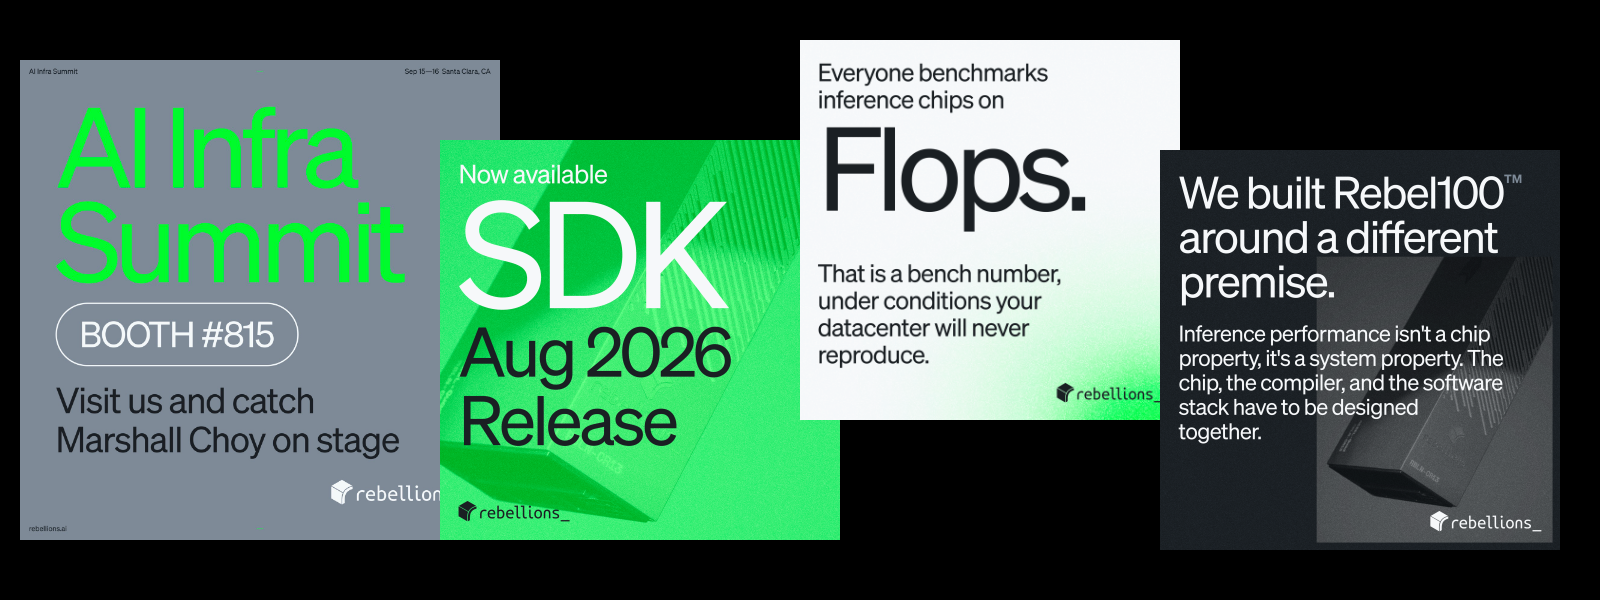
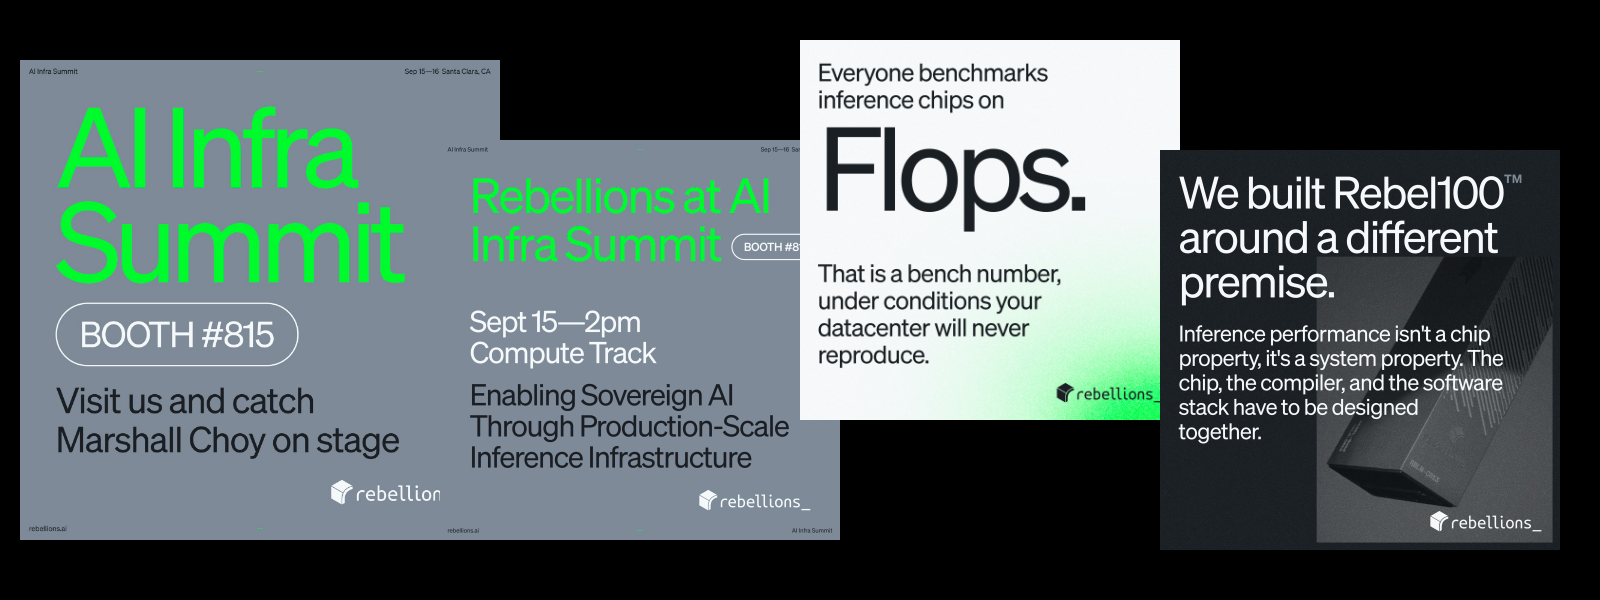
Critique rounds 6 to 10: left-set hed in its own band, eight-card locked grid, plain Experience columns
The headline sits in a black band above the mesh, no peeking card, arcs and the About/Contact band are gone. Work runs eight cards at fixed plate heights with continuous rules, Cloud Productions leaves the grid ( page stays, linked from Leadership University ), Music shows the poster photograph, captions collapse to two sizes. Experience is company, role, date in plain columns. Section labels drop to the 27px tier. Mobile rules rewritten for the left hero.

Changed region(s): [[0.25, 0.21, 0.5312, 0.9]]

diff --git a/index.html b/index.html
@@ -21,17 +21,12 @@
 
   <main id="top">
     <!-- Pinned hero. The card train slides right to left as the page scrolls. -->
-    <section class="hero">
+    <section class="hero hero--left">
       <div class="hero__pin">
+        <div class="hero__band"><h1 class="hero__hed">Brand, product and web design for security software, AI silicon and music</h1></div>
+        <div class="hero__stage">
         <img class="hero__mesh" src="assets/shader/mesh.png" alt="" />
-        <svg class="hero__arcs" viewBox="0 0 1440 800" preserveAspectRatio="xMidYMid slice" aria-hidden="true">
-          <g fill="none" stroke="#5a5a5a" stroke-width="1">
-            <line x1="0" y1="200" x2="1440" y2="200"/><line x1="0" y1="400" x2="1440" y2="400"/><line x1="0" y1="600" x2="1440" y2="600"/>
-            <circle cx="-30" cy="400" r="360"/><circle cx="210" cy="400" r="360"/><circle cx="450" cy="400" r="360"/><circle cx="690" cy="400" r="360"/><circle cx="930" cy="400" r="360"/><circle cx="1170" cy="400" r="360"/><circle cx="1410" cy="400" r="360"/>
-          </g>
-        </svg>
-        <h1 class="hero__hed">Brand, product and web design for security software, AI silicon and music</h1>
-        <span class="hero__scroll">Scroll down</span>
+        <a class="hero__caption" href="https://shader-lab-five.vercel.app">Shader lab, WebGL, 2026</a>
         <div class="train" id="train">
           <a class="card card--2" href="projects/rebellions.html"><img src="assets/rebellions/carousel-1-cover.jpg" alt="" /><span class="card__pills"><span class="pill">Brand</span><span class="pill">Social</span></span></a>
           <a class="card card--0" href="projects/music.html"><img src="assets/music/noe-106.png" alt="" /><span class="card__pills"><span class="pill">Identity</span><span class="pill">Posters</span></span></a>
@@ -45,9 +40,6 @@
           <a class="card card--9" href="https://shader-lab-five.vercel.app"><img src="assets/shader/dotfield.png" alt="" /><span class="card__title">Shader lab</span><span class="card__pills"><span class="pill">Generative</span></span></a>
           <a class="card card--8" href="projects/gravity.html"><img src="assets/gravity/gcom_Seal._1100.png" alt="" /><span class="card__title">Gravity</span><span class="card__pills"><span class="pill">Identity</span></span></a>
         </div>
-        <div class="bar bar--corner">
-          <a href="#about">About</a>
-          <a href="#contact">Contact</a>
         </div>
       </div>
     </section>
@@ -56,104 +48,98 @@
     <section id="work" class="sheet">
       <div class="cell cell--label">
         <h2 class="display-xl">Work</h2>
-        <p class="body">Eleven projects across AI silicon, security software, music, a synthesizer and a shader lab, 2010 to 2026.</p>
-        <a class="ghost ghost--label" href="https://cargocollective.com/reductive">Earlier work at Reductive</a>
+        <p class="body">Ten projects, 2010 to 2026.</p>
+        <a class="textlink" href="https://cargocollective.com/reductive">Earlier work at Reductive</a>
       </div>
       <a class="cell cell--card cell--card-wide" href="projects/rebellions.html">
         <img src="assets/rebellions/collage-wide.png" alt="" />
-        <span class="meta"><span class="pill">Brand</span><span class="pill">Social</span><span class="date">2026 to now</span></span>
+        <span class="meta-line">Brand, Social, 2026 to now</span>
         <span class="heading-lg">Rebellions</span>
-        <span class="body">Social templates and the AI Infra Summit carousel for a Korean AI inference chip company. The first work under a new creative direction.</span>
+        <span class="body">Social system and the AI Infra Summit carousel, the first public work.</span>
       </a>
       <a class="cell cell--card" href="projects/nudge-security.html">
         <img src="assets/nudge/work-bento-2026.png" alt="" />
-        <span class="meta"><span class="pill">Brand</span><span class="pill">Product</span><span class="date">2022 to 2026</span></span>
+        <span class="meta-line">Brand, Product, 2022 to 2026</span>
         <span class="heading-lg">Nudge Security</span>
-        <span class="body">Creative direction for a SaaS security platform, from a four person prototype to a shipped design system.</span>
+        <span class="body">Brand, product and web for a SaaS security platform, 2022 to 2026.</span>
       </a>
       <div class="cell cell--blank"></div>
       <a class="cell cell--card" href="projects/music.html">
-        <img src="assets/music/collage.png" alt="" />
-        <span class="meta"><span class="pill">Identity</span><span class="pill">Posters</span><span class="date">2023 to 2025</span></span>
+        <img src="assets/music/hb-posters.png" alt="" />
+        <span class="meta-line">Identity, Posters, 2023 to 2025</span>
         <span class="heading-lg">Music</span>
-        <span class="body">Fast Forward, Harvard Bass, Night on Earth, Ruth Radelet, WN. Logomarks, tour posters and monthly flyers.</span>
+        <span class="body">Logomarks, tour posters and flyers for five acts.</span>
       </a>
       <a class="cell cell--card" href="https://shader-lab-five.vercel.app">
         <img src="assets/shader/mesh.png" alt="" />
-        <span class="meta"><span class="pill">Generative</span><span class="pill">WebGL</span><span class="date">2026</span></span>
+        <span class="meta-line">Generative, WebGL, 2026</span>
         <span class="heading-lg">Shader lab</span>
-        <span class="body">Three live shaders, dotfield, coil and mesh. The URL hash is the saved look.</span>
+        <span class="body">Three live shaders. The URL hash is the saved look.</span>
       </a>
       <a class="cell cell--card" href="projects/imperva.html">
         <img src="assets/imperva/video/overview-wheel.jpg" alt="" />
-        <span class="meta"><span class="pill">Product</span><span class="pill">Brand</span><span class="date">2018 to 2022</span></span>
+        <span class="meta-line">Product, Brand, 2018 to 2022</span>
         <span class="heading-lg">Imperva</span>
-        <span class="body">Attack analytics, dashboards and brand for a public cybersecurity company.</span>
+        <span class="body">Product UI system, then the brand, for a public security company.</span>
       </a>
       <div class="cell cell--blank"></div>
       <a class="cell cell--card" href="projects/prevoty.html">
         <img src="assets/prevoty/brand-bento.jpg" alt="" />
-        <span class="meta"><span class="pill">Brand</span><span class="pill">Product</span><span class="date">2012 to 2018</span></span>
+        <span class="meta-line">Brand, Product, 2012 to 2018</span>
         <span class="heading-lg">Prevoty</span>
-        <span class="body">Identity and product design for a runtime security startup, through its acquisition by Imperva.</span>
+        <span class="body">Identity and product for a runtime security startup.</span>
       </a>
       <a class="cell cell--card" href="projects/leadership-university.html">
         <img src="assets/leadu/app-dubrovnik.jpg" alt="" />
-        <span class="meta"><span class="pill">Brand</span><span class="pill">Web</span><span class="date">2019</span></span>
+        <span class="meta-line">Brand, Web, 2019</span>
         <span class="heading-lg">Leadership University</span>
-        <span class="body">Brand and marketing site for a leadership platform, built on aerial cinematography and large type.</span>
+        <span class="body">Brand and site for a twelve episode leadership series.</span>
       </a>
-      <a class="cell cell--card" href="projects/cloud-productions.html">
-        <img src="assets/boundaries/drcloud-home.png" alt="" />
-        <span class="meta"><span class="pill">Brand</span><span class="pill">Web</span><span class="date">2019</span></span>
-        <span class="heading-lg">Cloud Productions</span>
-        <span class="body">Brand and web for Dr. Henry Cloud's courses, coaching and community.</span>
-      </a>
-      <div class="cell cell--blank"></div>
-      <a class="cell cell--card cell--card-full" href="projects/c-qnc-synth.html">
+      <a class="cell cell--card" href="projects/c-qnc-synth.html">
         <img src="assets/cqnc/synth-app.jpg" alt="" />
-        <span class="meta"><span class="pill">Instrument</span><span class="pill">Side project</span><span class="date">2025</span></span>
+        <span class="meta-line">Instrument, Side project, 2025</span>
         <span class="heading-lg">C-QNC Synth</span>
-        <span class="body">A browser polyphonic synthesizer: instrument racks, step sequencer, granular controls.</span>
+        <span class="body">A polyphonic synth and groovebox that runs in a browser tab.</span>
       </a>
     </section>
 
     <section id="about" class="sheet">
       <div class="cell cell--label">
         <h2 class="display-xl">About</h2>
-        <p class="body">Long Beach, California. Working with Seoul.</p>
+        <p class="body">Long Beach, California.</p>
       </div>
       <div class="cell cell--wide">
         <p class="display">Creative Director at Rebellions, the Korean AI inference chip company, since July 2026.</p>
         <p class="body">Before that, four years leading brand, product and web at Nudge Security, and ten at Imperva and Prevoty building the design system for a runtime security product. Earlier work at BBC Worldwide, Gravity and MySpace.</p>
       </div>
-      <div class="cell cell--action cell--stack">
-        <a class="ghost" href="mailto:jm@reductive.co">jm@reductive.co</a>
-        <a class="ghost" href="https://www.linkedin.com/in/mcnielj/">LinkedIn</a>
+      <div class="cell cell--links">
+        <a class="textlink" href="https://www.linkedin.com/in/mcnielj/">LinkedIn</a>
+        <a class="textlink" href="https://cargocollective.com/reductive">Reductive archive</a>
       </div>
     </section>
 
     <section id="experience" class="sheet">
       <div class="cell cell--label">
         <h2 class="display-xl">Experience</h2>
+        <p class="body">Nine roles since 2002.</p>
       </div>
       <ol class="cell cell--span3 roles">
-        <li class="role"><span class="heading-sm">Rebellions</span><span class="meta"><span class="pill">Creative director</span><span class="date">2026 to now</span></span></li>
-        <li class="role"><span class="heading-sm">Nudge Security</span><span class="meta"><span class="pill">Creative director</span><span class="date">2022 to 2026</span></span></li>
-        <li class="role"><span class="heading-sm">Imperva</span><span class="meta"><span class="pill">Creative director</span><span class="date">2020 to 2022</span></span></li>
-        <li class="role"><span class="heading-sm">Imperva, formerly Prevoty</span><span class="meta"><span class="pill">Sr. product designer</span><span class="date">2012 to 2020</span></span></li>
-        <li class="role"><span class="heading-sm">Personagraph</span><span class="meta"><span class="pill">Lead UX and product designer</span><span class="date">2012 to 2013</span></span></li>
-        <li class="role"><span class="heading-sm">BBC Worldwide</span><span class="meta"><span class="pill">Lead UX designer</span><span class="date">2011 to 2012</span></span></li>
-        <li class="role"><span class="heading-sm">Gravity</span><span class="meta"><span class="pill">Director of design</span><span class="date">2010</span></span></li>
-        <li class="role"><span class="heading-sm">MySpace</span><span class="meta"><span class="pill">UX and UI designer</span><span class="date">2008 to 2009</span></span></li>
-        <li class="role"><span class="heading-sm">isodsgn, Lathian Systems, Nichols International</span><span class="meta"><span class="pill">Designer, art director</span><span class="date">2002 to 2011</span></span></li>
+        <li class="role"><span class="heading-sm">Rebellions</span><span class="role__title">Creative director</span><span class="role__date">2026 to now</span></li>
+        <li class="role"><span class="heading-sm">Nudge Security</span><span class="role__title">Creative director</span><span class="role__date">2022 to 2026</span></li>
+        <li class="role"><span class="heading-sm">Imperva</span><span class="role__title">Creative director</span><span class="role__date">2020 to 2022</span></li>
+        <li class="role"><span class="heading-sm">Imperva, formerly Prevoty</span><span class="role__title">Sr. product designer</span><span class="role__date">2012 to 2020</span></li>
+        <li class="role"><span class="heading-sm">Personagraph</span><span class="role__title">Lead UX and product designer</span><span class="role__date">2012 to 2013</span></li>
+        <li class="role"><span class="heading-sm">BBC Worldwide</span><span class="role__title">Lead UX designer</span><span class="role__date">2011 to 2012</span></li>
+        <li class="role"><span class="heading-sm">Gravity</span><span class="role__title">Director of design</span><span class="role__date">2010</span></li>
+        <li class="role"><span class="heading-sm">MySpace</span><span class="role__title">UX and UI designer</span><span class="role__date">2008 to 2009</span></li>
+        <li class="role"><span class="heading-sm">isodsgn, Lathian Systems, Nichols International</span><span class="role__title">Designer, art director</span><span class="role__date">2002 to 2011</span></li>
       </ol>
     </section>
 
     <section class="sheet">
       <div class="cell cell--label">
         <h2 class="display-xl">Said</h2>
-        <p class="body">About the work, by people who paid for it.</p>
+        <p class="body">By people who paid for the work.</p>
       </div>
       <div class="cell cell--span3 quotes">
         <figure class="quote"><blockquote class="quote__text">"I've never met anyone with better taste. My number one pick for design and information architecture."</blockquote><figcaption class="quote__by">F. Brito, CTO, iv.ai</figcaption></figure>
@@ -163,7 +149,7 @@
   </main>
 
   <footer id="contact" class="sheet foot">
-    <div class="cell"><span class="caption">&copy; 2026 Jamie McNiel, Long Beach, California</span></div>
+    <div class="cell"><span class="caption">&copy; 2026 Jamie McNiel</span></div>
     <div class="cell"><a class="caption" href="https://www.linkedin.com/in/mcnielj/">LinkedIn</a></div>
     <div class="cell"><a class="caption" href="https://cargocollective.com/reductive">Earlier work at Reductive</a></div>
     <div class="cell"><a class="foot__mail" href="mailto:jm@reductive.co">jm@reductive.co</a></div>

diff --git a/b.css b/b.css
@@ -36,7 +36,7 @@ img { display: block; }
 .heading { font-size: 27px; line-height: 1.2; letter-spacing: -0.032em; }
 .heading-lg { font-size: 32px; line-height: 1; letter-spacing: -0.037em; }
 .display { font-size: clamp(32px, 3.5vw, 50px); line-height: 1; letter-spacing: -0.044em; }
-.display-xl { font-weight: 400; font-size: clamp(36px, 3.6vw, 56px); line-height: 0.9; letter-spacing: -0.05em; }
+.display-xl { font-weight: 400; font-size: 27px; line-height: 1.1; letter-spacing: -0.032em; }
 
 .pill {
   display: inline-block;
@@ -97,11 +97,11 @@ img { display: block; }
 }
 
 /* Hero: 320vh runway, pinned viewport, card train */
-.hero { height: 320vh; position: relative; }
+.hero { height: calc(3 * min(100vh - var(--bar), 700px)); position: relative; }
 .hero__pin {
   position: sticky;
   top: var(--bar);
-  height: calc(100vh - var(--bar));
+  height: min(calc(100vh - var(--bar)), 700px);
   overflow: hidden;
 }
 .hero__mesh { position: absolute; inset: 0; width: 100%; height: 100%; object-fit: cover; opacity: .62; }
@@ -155,18 +155,24 @@ img { display: block; }
 .card--9  { left: 2960px; top: 42%; width: 560px; aspect-ratio: 3098 / 2180; z-index: 3; } /* Shader lab */
 
 /* Left-set hero variant: hed flush left on the rail edge, mesh pushed right and dimmed under the type, no peeking card */
+.hero__band { position: relative; z-index: 2; height: 250px; padding: 36px var(--gutter) 0; background: var(--obsidian); }
+.hero__stage { position: absolute; left: 0; right: 0; top: 250px; bottom: 0; overflow: hidden; }
 .hero--left .hero__hed {
-  left: var(--gutter); top: auto; bottom: 200px;
-  transform: none;
-  width: min(62vw, 900px);
+  position: static; transform: none;
+  width: min(72vw, 1040px);
   text-align: left;
-  font-size: clamp(40px, 5vw, 72px);
+  font-size: clamp(40px, 4.2vw, 60px);
   mix-blend-mode: normal;
   color: var(--ghost);
 }
-.hero--left .hero__mesh { object-position: 70% 50%; opacity: .5; }
-.hero--left .hero__scroll { left: auto; right: var(--gutter); transform: none; bottom: 200px; }
+.hero--left .hero__mesh { object-position: center 40%; opacity: .7; transform: none; }
+.hero__caption { position: absolute; right: var(--gutter); bottom: 18px; font-size: 16px; color: var(--ash-text); z-index: 2; }
+.hero__caption:hover { color: var(--ghost); }
 .hero--left .train { left: 100vw; }
+
+/* Work rows: continuous horizontal rules */
+#work .cell { border-bottom: 1px solid var(--ash); }
+#work + .sheet { border-top: 0; }
 
 /* Sheet: four columns, hairline seams, sections stacked */
 .sheet {
@@ -187,21 +193,26 @@ img { display: block; }
 .cell--label { padding-top: 10px; }
 .cell--label .display-xl { margin-left: -2px; }
 .cell--label .body { margin-top: 14px; max-width: 22em; font-size: 17px; color: var(--ash-text); }
-.ghost--label { margin-top: 28px; display: inline-block; width: auto; }
-.cell--card { display: flex; flex-direction: column; gap: 9px; padding-top: 18px; padding-bottom: 54px; }
-.cell--card img { width: 100%; aspect-ratio: 4 / 3; object-fit: cover; margin-bottom: 9px; border: 1px solid var(--ash); }
+.textlink { display: inline-block; margin-top: 28px; font-size: 16px; border-bottom: 1px solid var(--ghost); padding-bottom: 2px; }
+.textlink:hover { color: var(--ash-text); border-color: var(--ash-text); }
+.cell--links { display: flex; flex-direction: column; gap: 4px; padding-top: 22px; }
+.cell--links .textlink { margin-top: 0; align-self: flex-start; }
+.cell--card { display: flex; flex-direction: column; gap: 6px; padding-top: 18px; padding-bottom: 36px; }
+.cell--card img { width: 100%; aspect-ratio: 4 / 3; object-fit: cover; margin-bottom: 6px; }
 .cell--card:hover img { opacity: .82; }
-.cell--card .heading-lg { margin-top: 5px; order: 1; }
-.cell--card .meta { order: 2; }
+.cell--card .heading-lg { margin-top: 8px; order: 1; font-size: 27px; letter-spacing: -0.032em; }
+.cell--card .meta-line { order: 2; font-size: 15px; color: #b0b0b0; }
 .cell--card .body { order: 3; }
 .cell--card img { order: 0; }
-.cell--card .body { color: var(--ash-text); font-size: 17px; }
+.cell--card .body { color: #b0b0b0; font-size: 15px; min-height: 2.9em; }
 .cell--card-wide { grid-column: span 2; }
 .cell--card-wide img { aspect-ratio: 8 / 3; }
-.cell--card-wide .heading-lg { font-size: 50px; letter-spacing: -0.044em; }
+.cell--card img[src*="app-dubrovnik"] { transform: scale(1.02); }
+.cell--card img[src*="hb-posters"] { object-position: 60% 50%; }
+
 .cell--card-full { grid-column: 2 / -1; }
-.cell--card-full img { aspect-ratio: 21 / 9; }
-.cell--card-full .heading-lg { font-size: 50px; letter-spacing: -0.044em; }
+.cell--card-full img { aspect-ratio: 21 / 9; object-position: center 62%; }
+
 .cell--action { display: flex; align-items: flex-start; justify-content: stretch; padding-top: 18px; }
 .cell--action .ghost { width: 100%; }
 .cell--stack { flex-direction: column; gap: 9px; }
@@ -215,13 +226,14 @@ img { display: block; }
 .roles { padding: 0; }
 .role {
   display: grid;
-  grid-template-columns: 1fr 2fr;
+  grid-template-columns: 1.2fr 1fr 0.8fr;
   gap: 14px;
   align-items: center;
   padding: 14px var(--gutter);
   border-bottom: 1px solid var(--ash);
 }
-.role .role__meta { display: flex; align-items: center; gap: 14px; }
+.role__title, .role__date { font-size: 16px; color: var(--ash-text); }
+.role__date { text-align: right; }
 .role:last-child { border-bottom: 0; }
 
 
@@ -243,6 +255,12 @@ img { display: block; }
   .hero__pin { position: relative; height: auto; min-height: 70vh; padding-bottom: 80px; }
   .hero__hed { position: relative; left: 0; top: 0; transform: none; width: auto; margin: 80px var(--gutter) 40px; text-align: left; }
   .hero__scroll { display: none; }
+  .hero__band { height: auto; padding: 56px var(--gutter) 32px; }
+  .hero__stage { position: relative; top: auto; }
+  .hero--left .hero__hed { width: auto; font-size: clamp(38px, 10vw, 56px); margin: 0; }
+  .hero__caption { position: static; display: block; padding: 0 var(--gutter) 24px; }
+  .hero__mesh { display: none; }
+  .hero--left .train { left: 0; }
   .train { position: relative; left: 0; width: auto; height: auto; display: flex; flex-direction: column; gap: 14px; padding: 0 var(--gutter) 80px; transform: none !important; }
   .card { position: relative; left: auto !important; top: auto !important; width: auto !important; height: auto !important; aspect-ratio: auto !important; display: flex; flex-direction: column; }
   .card img { aspect-ratio: 4 / 3; order: 2; }
@@ -257,7 +275,9 @@ img { display: block; }
   .cell:nth-child(2n) { border-right: 0; }
   .cell--label { grid-column: span 2; border-right: 0; min-height: 0; }
   .cell--wide, .cell--span3, .cell--span2 { grid-column: span 2; border-right: 0; }
-  .cell--blank,   .role { grid-template-columns: 1fr; gap: 8px; }
+  .cell--blank,   .role { grid-template-columns: 1fr 1fr; gap: 6px 14px; }
+  .role .heading-sm { grid-column: 1 / -1; }
+  .role__date { text-align: left; }
 }
 @media (max-width: 560px) {
   .sheet { grid-template-columns: 1fr; }
